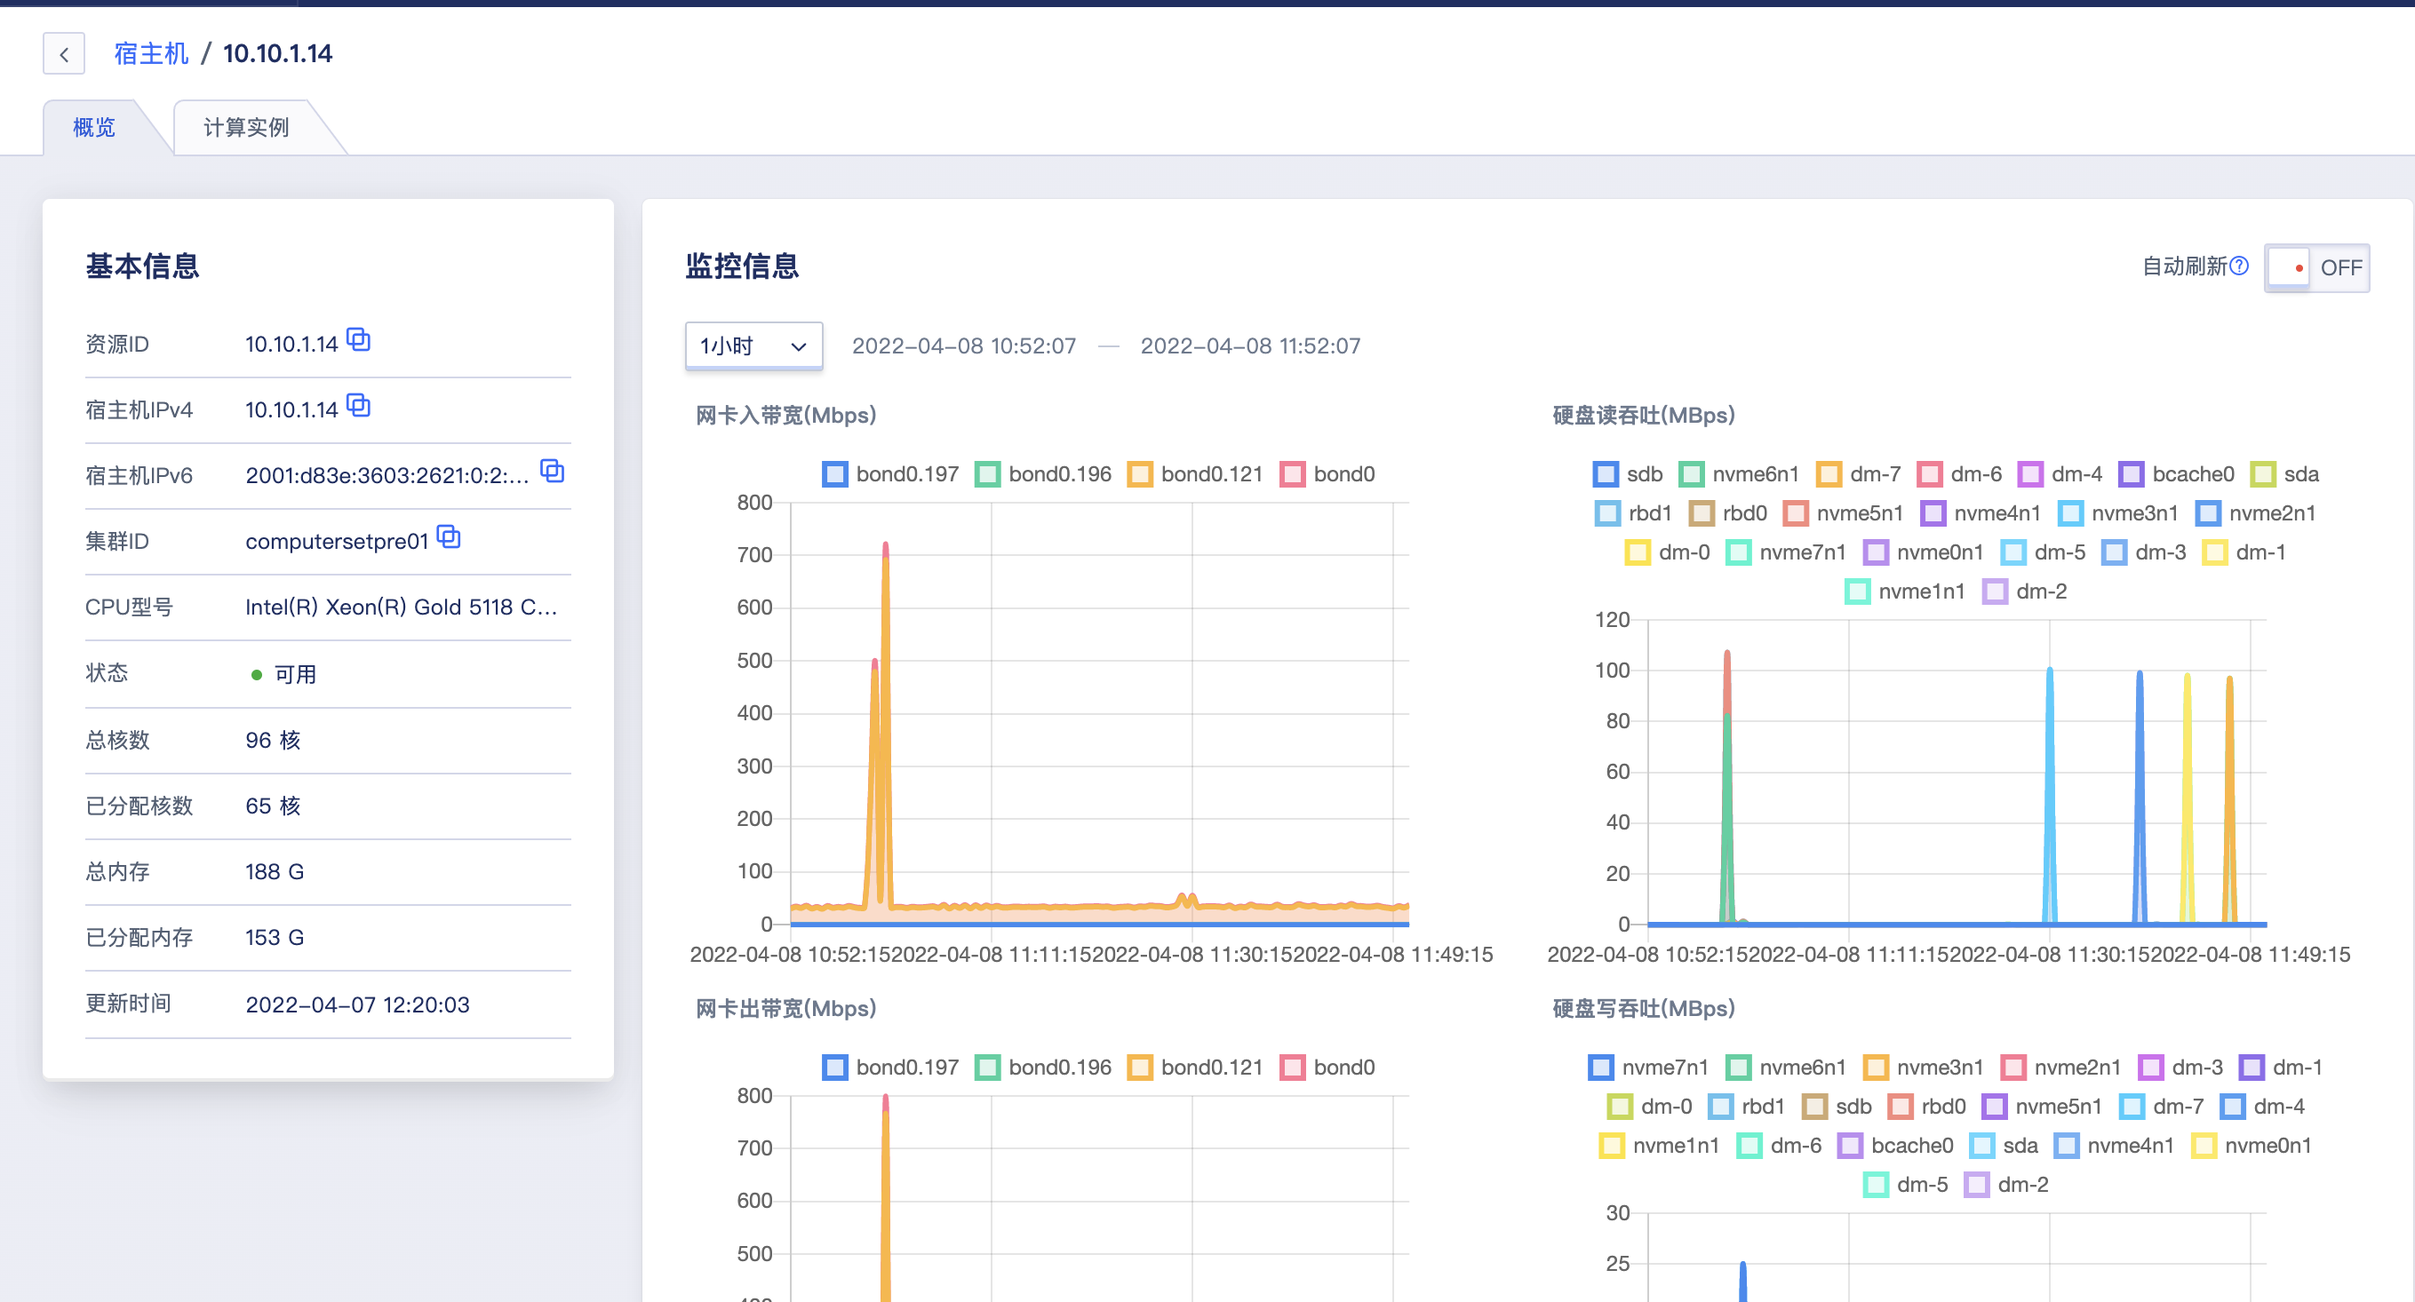
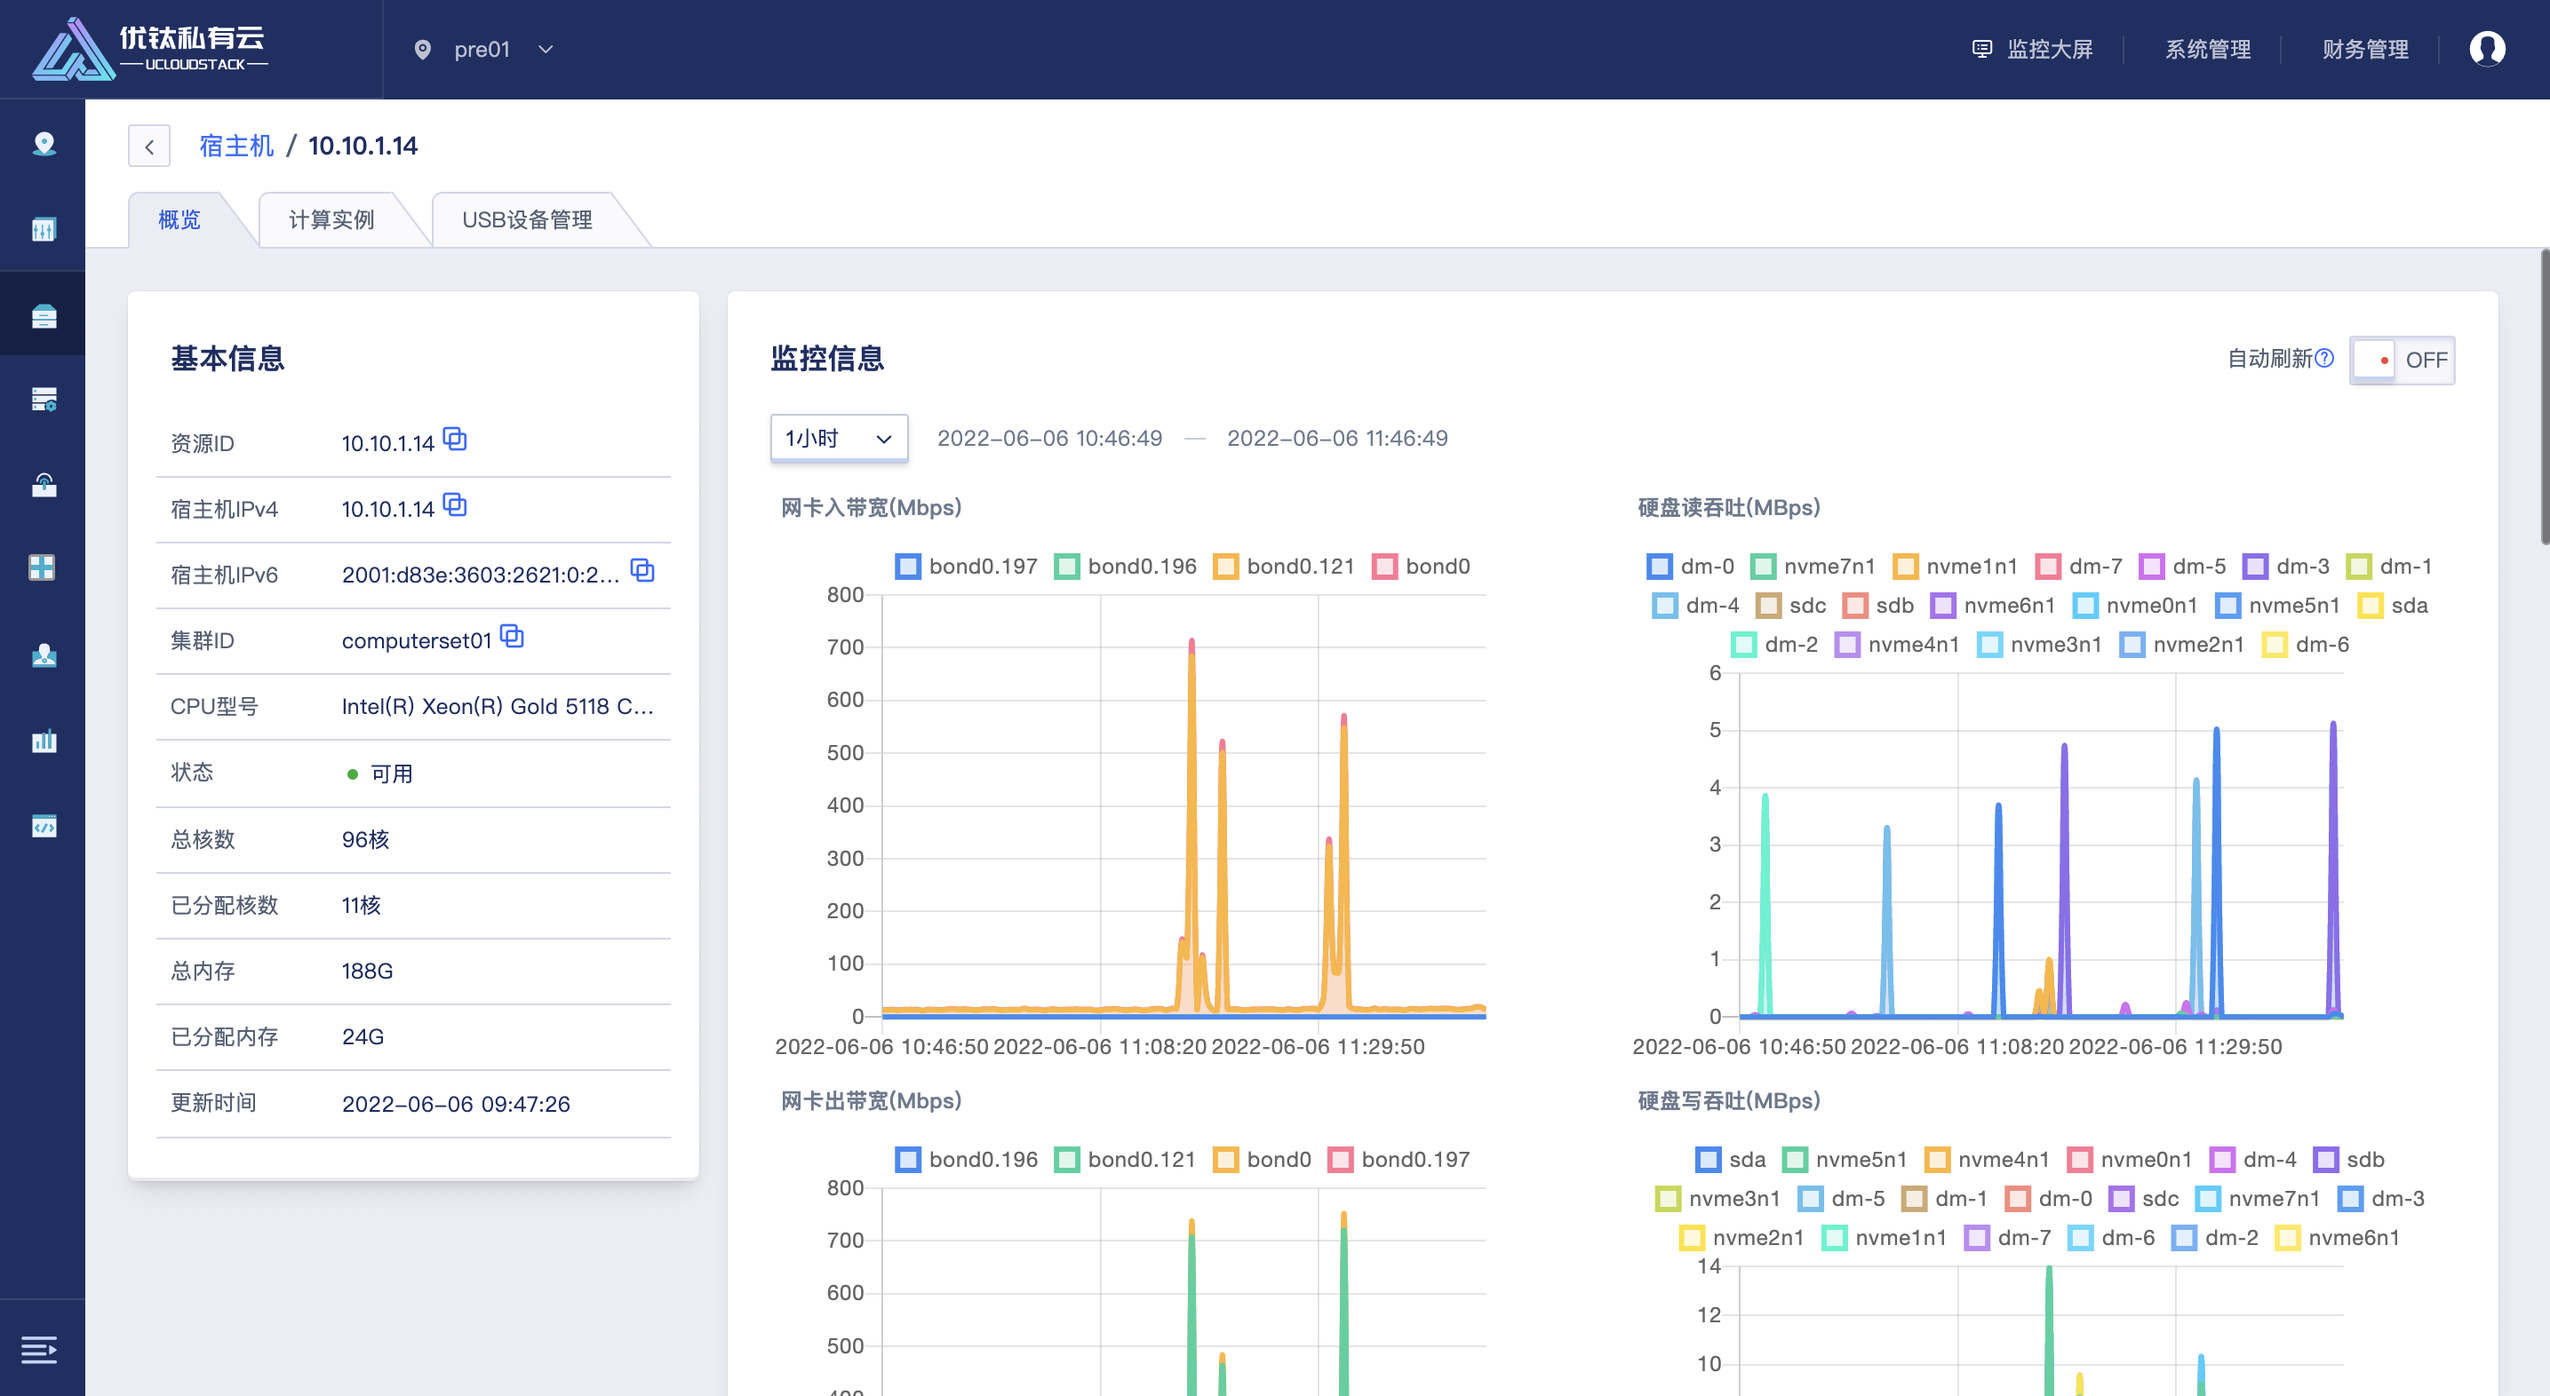
USB+DNS

diff --git a/userguide/vm.md b/userguide/vm.md
@@ -20,7 +20,7 @@
 
 ## 3.2 创建虚拟机
 
-云平台用户可以通过指定机型、规格、镜像、云硬盘、VPC 网络、公网 IP、安全组及虚拟机相关基础信息一键创建多台虚拟机，用于部署自己的应用和服务。
+云平台用户可以通过指定机型、规格、镜像、云硬盘、VPC 网络、公网 IP、安全组、USB、DNS、及虚拟机相关基础信息一键创建多台虚拟机，用于部署自己的应用和服务。
 
 ### 3.2.1 前提条件
 
@@ -87,7 +87,19 @@
       * CentOS 的管理员为 `root` ，Ubuntu 的管理员为 `ubuntu` ，Windows 系统的管理员名称为  `administrator` ；
 
 
-7. 选择购买数量和付费方式，如下图所示确认订单并点击“立即购买” 进行虚拟机创建操作。
+7. 配置高级设置，包括主机名、USB、DNS、CPU启动模式。
+
+   ![vmorder](../images/userguide/setup.png)
+  * 主机名：表示操作系统内部的计算机名，批量创建时会在当前填写主机名添加有序后缀，新的主机名会在实例重启后生效；
+  * USB：支持USB透传功能，物理机USB设备可直接透传至该物理机上所运行的云主机,USB设备包含以下两种模式：
+      * 直通：将USB设备加载到此物理机上的云主机，迁移云主机时需要卸载此USB设备 ；
+      * 转发：将USB设备加载到此物理机所在计算集群内的云主机，迁移云主机时不需要卸载此USB设备；
+  * DNS：支持自定义DNS，最多支持两个ip，多个ip请换行；
+  * CPU启动模式：虚拟机启动时CPU使用的模式，分为默认和直通，其中直通模式在线迁移需要2个物理机的CPU型号完全一致；
+
+
+8. 选择购买数量和付费方式，如下图所示确认订单并点击“立即购买” 进行虚拟机创建操作。
+
 
 ![vmorder](../images/userguide/vmorder.png)
 
@@ -143,7 +155,13 @@
 
 > 用户可开启监控图表右上角的【自动刷新】，使页面每隔 30 秒自动刷新，以获取最新监控图表数据。
 
-#### 3.3.2.2 虚拟机硬盘
+#### 3.3.2.2 USB设备
+
+**USB设备页面展示虚拟机绑定的USB设备，包括那个USB设备名、设备ID、状态、厂商、类型、序列号、USB版本、透传方式及卸载USB设备的操作。如下图所示：**
+
+![vmdiskinfo](../images/userguide/usb2.png)
+
+#### 3.3.2.3 虚拟机硬盘
 
 **磁盘页面展示当前虚拟机的系统盘及已挂载的数据盘信息，包括每个硬盘的名称、ID、集群架构、集群、硬盘类型、硬盘容量、挂载点、计费方式、状态、创建时间、过期时间及对单个硬盘的快照操作信息。如下图所示：**
 
@@ -160,13 +178,13 @@
 
 在虚拟机硬盘管理列表的操作项中，支持对虚拟机的系统盘和数据盘进行扩容、续费及快照操作，其中续费仅支持数据盘，系统盘与虚拟机生命周期一致。
 
-##### 3.3.2.2.1 硬盘快照
+##### 3.3.2.3.1 硬盘快照
 
 支持对系统盘和数据盘分别进行快照操作，快照仅捕获已写入硬盘的数据，不包含应用程序或操作系统缓存在内存中的数据，为确保快照中捕获所有应用程序的数据，建议将虚拟机关机或卸载数据盘后再进行快照。具体操作如下图所示：
 
 ![vmsnapshot](../images/userguide/vmsnapshot2.png)
 
-##### 3.3.2.2.2 硬盘扩容
+##### 3.3.2.3.2 硬盘扩容
 
 支持对系统盘和数据盘分别进行扩容操作，扩容云硬盘是增加块设备的容量，并未对系统内的文件系统进行扩容，即系统盘和数据盘扩容后需进入虚拟机内部进行文件系统的扩容(resize)操作，系统盘具体操作步骤详见：[系统盘扩容](#系统盘扩容) 。
 
@@ -174,7 +192,7 @@
 
 扩容会按照新容量进行收费，按小时付费的硬盘，升级容量下个付费周期按新配置扣费；按年按月付费的硬盘，升级容量即时生效，并按比例自动补差价。
 
-##### 3.3.2.2.3 数据盘续费
+##### 3.3.2.3.3 数据盘续费
 
 支持在虚拟机中对已挂载至虚拟机的数据盘直接进行续费操作，续费时会按照续费时长收取费用，如下图所示：
 
@@ -184,7 +202,7 @@
 
 云盘续费的时长与资源的计费方式相匹配，当数据盘的计费方式为【小时】，则续费时长指定为 1 小时；当数据盘的计费方式为【按月】，则续费时长可选择 1 至 11 月；当数据盘的计费方式为【按年】，则数据盘的续费时长为 1 至 5 年。
 
-#### 3.3.2.3 虚拟机网络
+#### 3.3.2.4 虚拟机网络
 
 **网络页面展示当前虚拟机的基本网络信息，同时可管理虚拟机的外网 IP 及弹性网卡资源 。** 其中基本网络信息包括当前虚拟机的属 VPC、所属子网、内网 IP、外网安全组及内网安全组信息，并可通过安全组右侧的按钮更新虚拟机的外网安全组和内网安全组。如下图所示：
 
@@ -192,7 +210,7 @@
 
 有关虚拟机的外网 IP 和弹性网卡资源详情及管理详见：[外网 IP 管理](#_3324-外网-IP-管理)和[弹性网卡管理](#_3325-弹性网卡管理)。
 
-#### 3.3.2.4 外网 IP 管理
+#### 3.3.2.5 外网 IP 管理
 
 平台支持 IPv4/IPv6  双栈网络，每个虚拟机最多支持绑定 50 个 IPv4 和 10 个 IPv6 外网 IP 地址，默认以第一个有默认路由的 IP 地址（包括外网弹性网卡的 IP 地址）作为虚拟机的默认网络出口；同时在虚拟机中查看已绑定的外网 IP 地址及网络路由，虚拟机访问外网的流量直接通过虚拟网卡透传至物理网卡与外部网络通信，提升网络传输的性能。
 
@@ -211,7 +229,7 @@
 
 > 绑定至虚拟机的外网弹性网卡的 IP 地址同时会展示至外网 IP 列表，支持设为出口操作但不支持解绑，可通过解绑弹性网卡进行弹性网卡外网 IP 的解绑和释放。
 
-##### 3.3.2.4.1 绑定外网 IP
+##### 3.3.2.5.1 绑定外网 IP
 
 最多支持绑定  50 个 IPv4 和 10 个 IPv6 外网 IP 地址，默认以第一个有默认路由的 IP 地址作为虚拟机的默认网络出口。
 
@@ -221,7 +239,7 @@
 
 ![ipeth1](../images/userguide/ipeth1.png)
 
-##### 3.3.2.4.2 解绑外网 IP
+##### 3.3.2.5.2 解绑外网 IP
 
 支持虚拟机解绑外网 IP 地址，若解绑了默认出口外网IP，则自动选择下一个有默认路由的外网 IP 作为虚拟机的默认网络出口。
 
@@ -229,7 +247,7 @@
 
 绑定至虚拟机的外网弹性网卡 IP 不支持解绑操作，如需解绑弹性网卡的 IP 地址，可直接解绑弹性网卡。
 
-##### 3.3.2.4.3 设为默认出口
+##### 3.3.2.5.3 设为默认出口
 
 支持用户手动将一个已绑定的外网 IP 设置为虚拟机的默认网络出口，仅支持将有默认路由的外网 IP 设为虚拟机默认网络出口。用户可通过虚拟机外网 IP 管理控制台，为虚拟机绑定的 IPv4 和 IPv6 外网 IP 分别设置默认网络出口。如下图所示：
 
@@ -245,7 +263,7 @@
 
 > 外网 IP 地址池资源由管理员自定义，支持使用私有 IP 地址段模拟公网 IP 地址，并在上层物理网络设备上做 NAT 转换访问互联网或 IDC 数据中心网络。
 
-#### 3.3.2.5 弹性网卡管理
+#### 3.3.2.6 弹性网卡管理
 
 x86 架构虚拟机最多支持绑定 6 块弹性网卡，ARM 架构虚拟机最多支持绑定 3 块网卡，用于精细化网络管理或高可用业务等应用场景。虚拟机中可查看已绑定的弹性网卡及关联的 IP 地址等信息，在 `Linux` 操作系统中通常会以 `eth2` 开始命名。
 

diff --git a/adminguide/virtual.md b/adminguide/virtual.md
@@ -6,7 +6,7 @@
 
 平台支持管理员指定租户创建 Windows、Ubuntu、CentOS 操作系统的虚拟机，创建的虚拟机归属于指定的租户所有。
 
-同时支持管理员对平台所有租户的虚拟机进行全生命周期管理，如查看虚拟机详情信息、VNC登录、启动/重启/关机/断电、重置密码、系统盘扩容、制作镜像、重装系统、绑定外网IP、解绑外网IP、设置默认出口、修改内/外网安全组、挂载云硬盘、续费、修改虚拟机配置、热升级、获取控制台信息、修改名称和备注、修改告警模板及删除销毁虚拟机。
+同时支持管理员对平台所有租户的虚拟机进行全生命周期管理，如查看虚拟机详情信息、USB设备信息、VNC登录、启动/重启/关机/断电、重置密码、系统盘扩容、制作镜像、重装系统、绑定外网IP、解绑外网IP、设置默认出口、修改内/外网安全组、挂载云硬盘、续费、修改虚拟机配置、热升级、获取控制台信息、修改名称和备注、修改告警模板及删除销毁虚拟机。
 
 ## 6.2 虚拟机模版
 

diff --git a/adminguide/copyright.md b/adminguide/copyright.md
@@ -10,7 +10,7 @@ UCloudStack 商标和 UCloud 商标为优刻得科技股份有限公司所有。
 
 由于产品版本升级或其它原因，本文档内容会不定期更新，除非另有约定，本文档仅作为使用指导，本文档中的所有陈述、信息和建议不构成任何明示或暗示的担保。
 
-本文档描述 UCloudStack （v2.2.0）云平台的管理员运维运营功能说明和操作指南，适用于需要通过管理控制台管理并运营整个平台的资源、账户、计费及相关配置的平台管理者和运营者，平台租户及开发者可参考用户指南和 API 开发者文档。
+本文档描述 UCloudStack （v2.2.）云平台的管理员运维运营功能说明和操作指南，适用于需要通过管理控制台管理并运营整个平台的资源、账户、计费及相关配置的平台管理者和运营者，平台租户及开发者可参考用户指南和 API 开发者文档。
 
 
 

diff --git a/adminguide/physical.md b/adminguide/physical.md
@@ -51,6 +51,12 @@
 
 计算实例包括虚拟机的实例，同时也包括平台网关及 PaaS 产品的实例，可通过实例名称及资源 ID 进行区分。
 
+**（4）USB设备管理**
+
+支持管理员通过宿主机页面，查看宿主机中USB设备列表及信息，包括设备名、设备ID、状态、厂商、类型、序列号、虚拟机、USB版本、所属租户，并支持对USB进行分配，如下图所示：
+
+![nodeinstance](../images/adminguide/usb.png)
+
 ### 5.1.3 锁定宿主机
 
 宿主机被锁定后，新建计算实例不会被调度至计算节点，不影响节点内已有计算实例，可配合宿主机进入维护模式功能，以实现宿主机维护、升级等操作。

diff --git a/_sidebar.md b/_sidebar.md
@@ -1,4 +1,4 @@
-<div class="sidebar_title icon-product__ucloudstack_v2.x">私有云UCloudStack v2.1版本</div>
+<div class="sidebar_title icon-product__ucloudstack_v2.x">私有云UCloudStack v2.2版本</div>
 
 * [文档概览](UCloudStack_v2.x/README.md)
 * 产品介绍
@@ -11,7 +11,5 @@
 * 开发者指南
   * [API手册](UCloudStack_v2.x/apiguide/README.md)
   * [API状态码列表](UCloudStack_v2.x/apiretcode/README.md)
-* 更新历史
-  * [更新历史](UCloudStack_v2.x/changelog/README.md)
 * [返回主页](UCloudStack_v2.x/README.md)
 * [常见问题](UCloudStack_v2.x/faq.md)

diff --git a/adminguide/_sidebar.md b/adminguide/_sidebar.md
@@ -1,4 +1,4 @@
-<div class="sidebar_title icon-product__UCloudStack_v2.x">管理员手册 v2.1版本</div>
+<div class="sidebar_title icon-product__UCloudStack_v2.x">管理员手册 v2.2版本</div>
 
  * [概览](UCloudStack_v2.x/adminguide/README.md)
  * [版权声明](UCloudStack_v2.x/adminguide/copyright.md)

diff --git a/userguide/_sidebar.md b/userguide/_sidebar.md
@@ -1,4 +1,4 @@
-<div class="sidebar_title icon-product__UCloudStack_v2.x">用户手册 v2.1版本</div>
+<div class="sidebar_title icon-product__UCloudStack_v2.x">用户手册 v2.2版本</div>
 
 * [概览](UCloudStack_v2.x/userguide/README.md)
 * [版权声明](UCloudStack_v2.x/userguide/copyright.md)

diff --git a/introduction/_sidebar.md b/introduction/_sidebar.md
@@ -1,4 +1,4 @@
-<div class="sidebar_title icon-product__ucloudstack">产品简介 v2.1版本</div>
+<div class="sidebar_title icon-product__ucloudstack">产品简介 v2.2版本</div>
 
 * [产品概述](UCloudStack_v2.x/introduction/README.md)
 * [产品架构](UCloudStack_v2.x/introduction/arch.md)

diff --git a/adminguide/cover.md b/adminguide/cover.md
@@ -20,13 +20,13 @@
 
 
 <center>
-<B><font size=5>产品版本：V2.1.0 </font></B>
+<B><font size=5>产品版本：V2.2 </font></B>
 </center>
 
 
 
 <center>
-<B><font size=4>文档版本：202204 </font></B>
+<B><font size=4>文档版本：202206 </font></B>
 </center>
 
 

diff --git a/techwhitepaper/_sidebar.md b/techwhitepaper/_sidebar.md
@@ -1,4 +1,4 @@
-<div class="sidebar_title icon-product__UCloudStack_v2.x/v1.x">技术白皮书 v2.1版本</div>
+<div class="sidebar_title icon-product__UCloudStack_v2.x/v1.x">技术白皮书 v2.2版本</div>
 
 * [概览](UCloudStack_v2.x/techwhitepaper/README.md)
 

diff --git a/techwhitepaper/UCloudStack技术白皮书.md b/techwhitepaper/UCloudStack技术白皮书.md
@@ -28,10 +28,10 @@
 
 
 
-
 <center>
-<B><font size=4>文档版本：202103 </font></B>
+<B><font size=4>文档版本：202206 </font></B>
 </center>
+
 
 
 

diff --git a/techwhitepaper/cover.md b/techwhitepaper/cover.md
@@ -28,10 +28,10 @@
 
 
 
-
 <center>
-<B><font size=4>文档版本：202203 </font></B>
+<B><font size=4>文档版本：202206 </font></B>
 </center>
+
 
 
 
